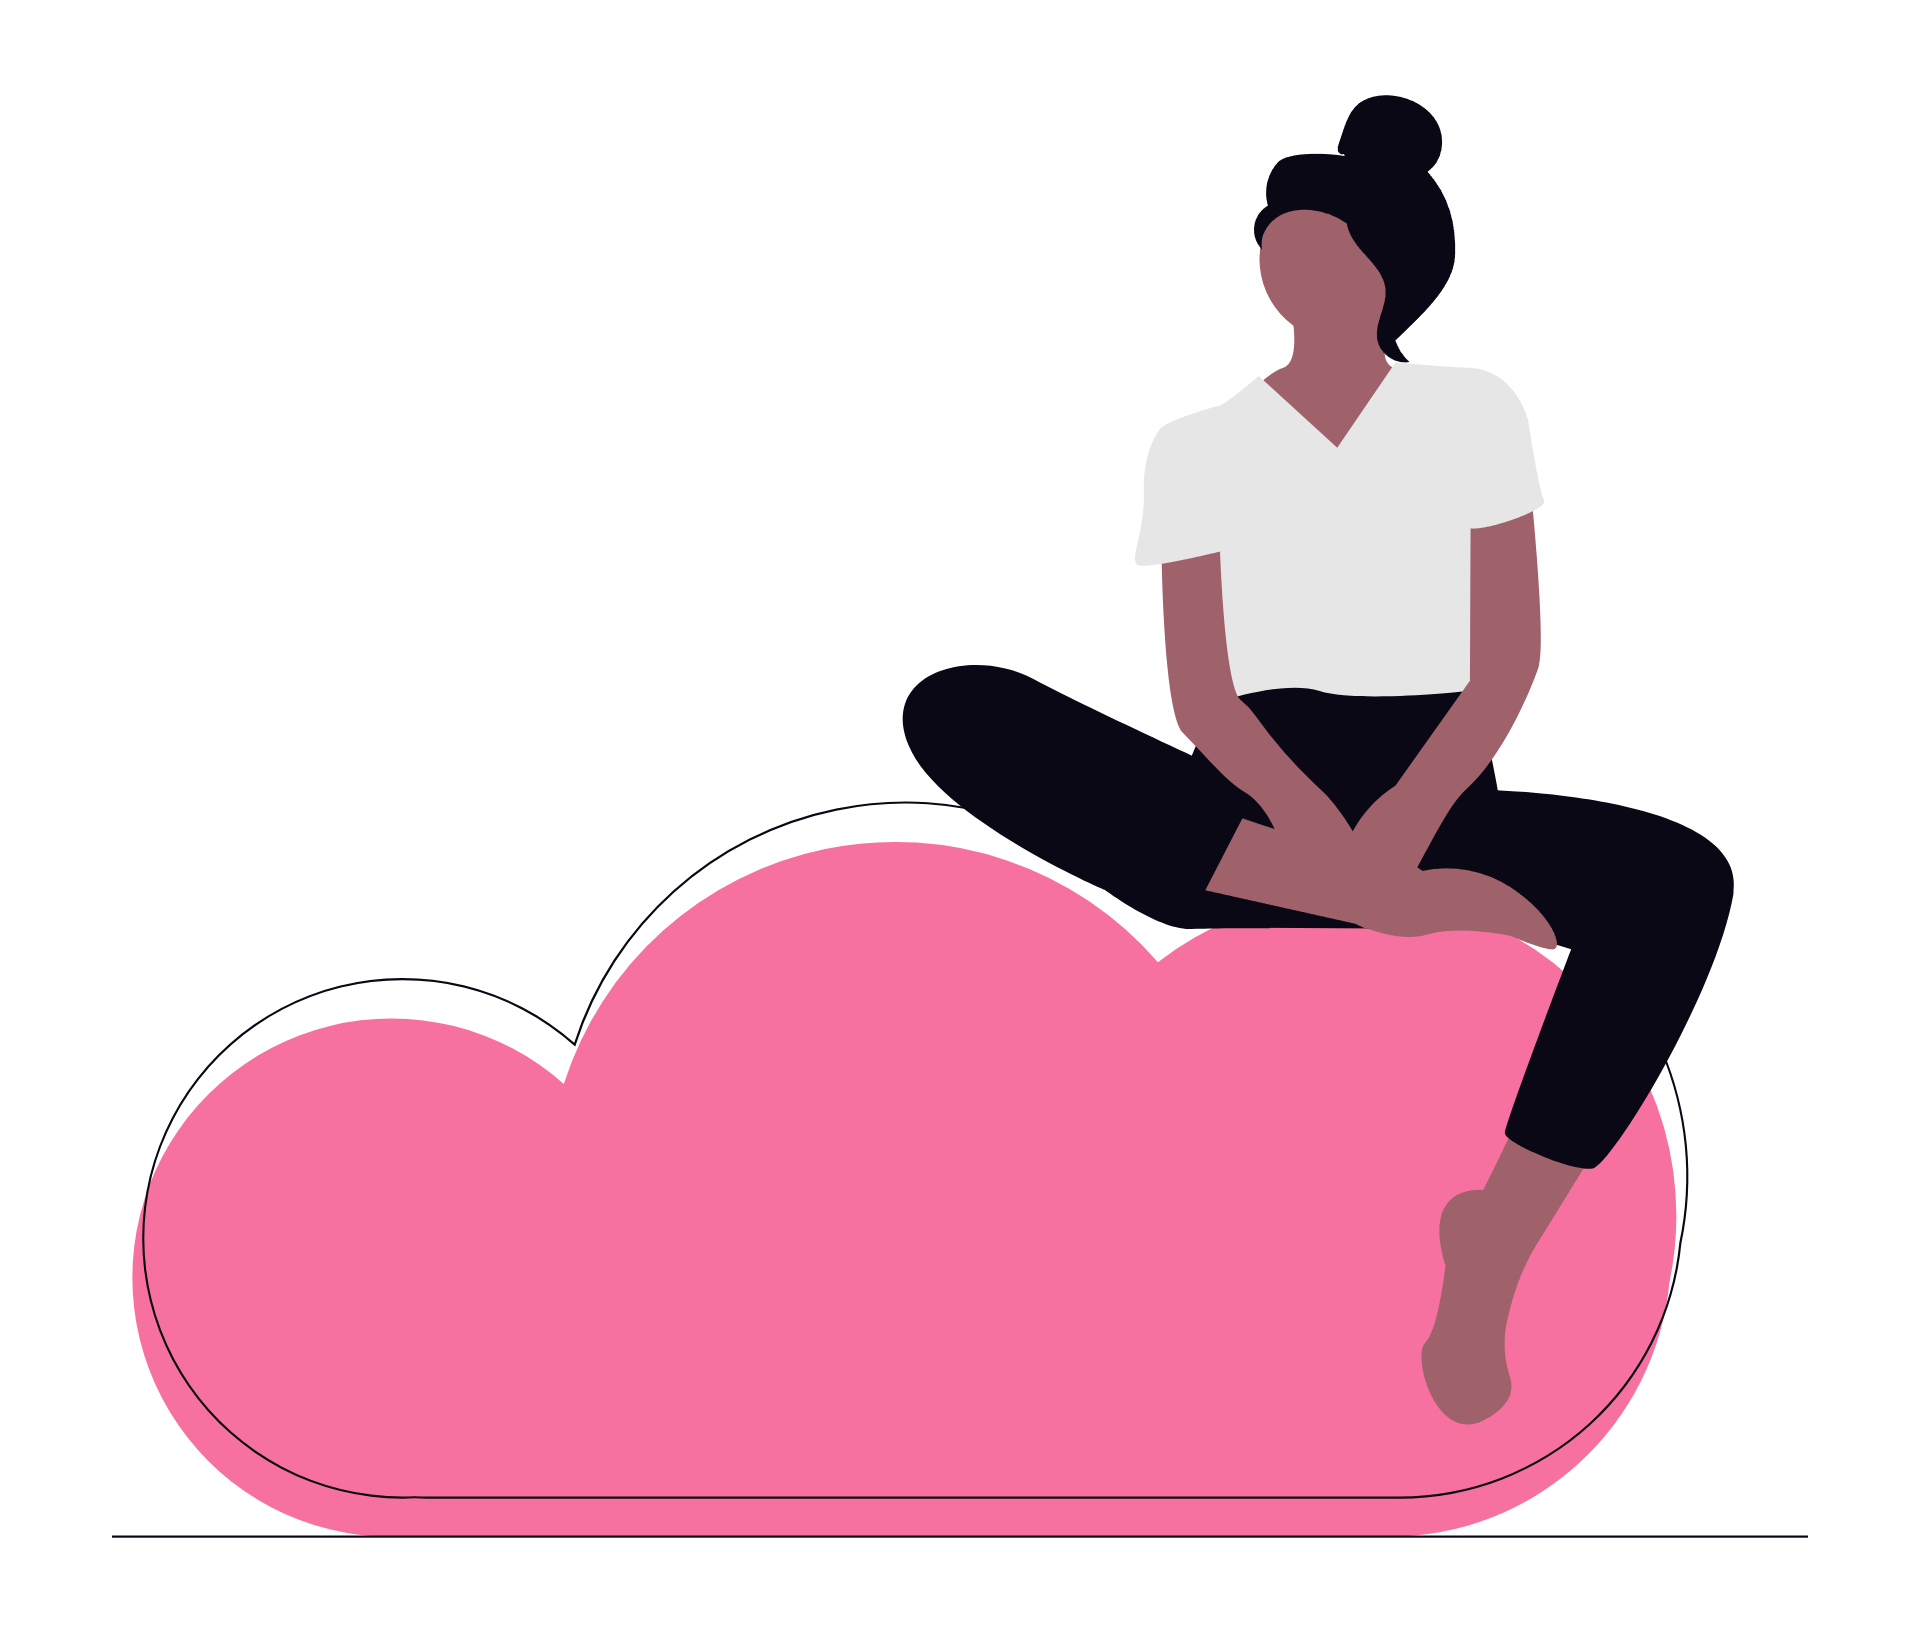
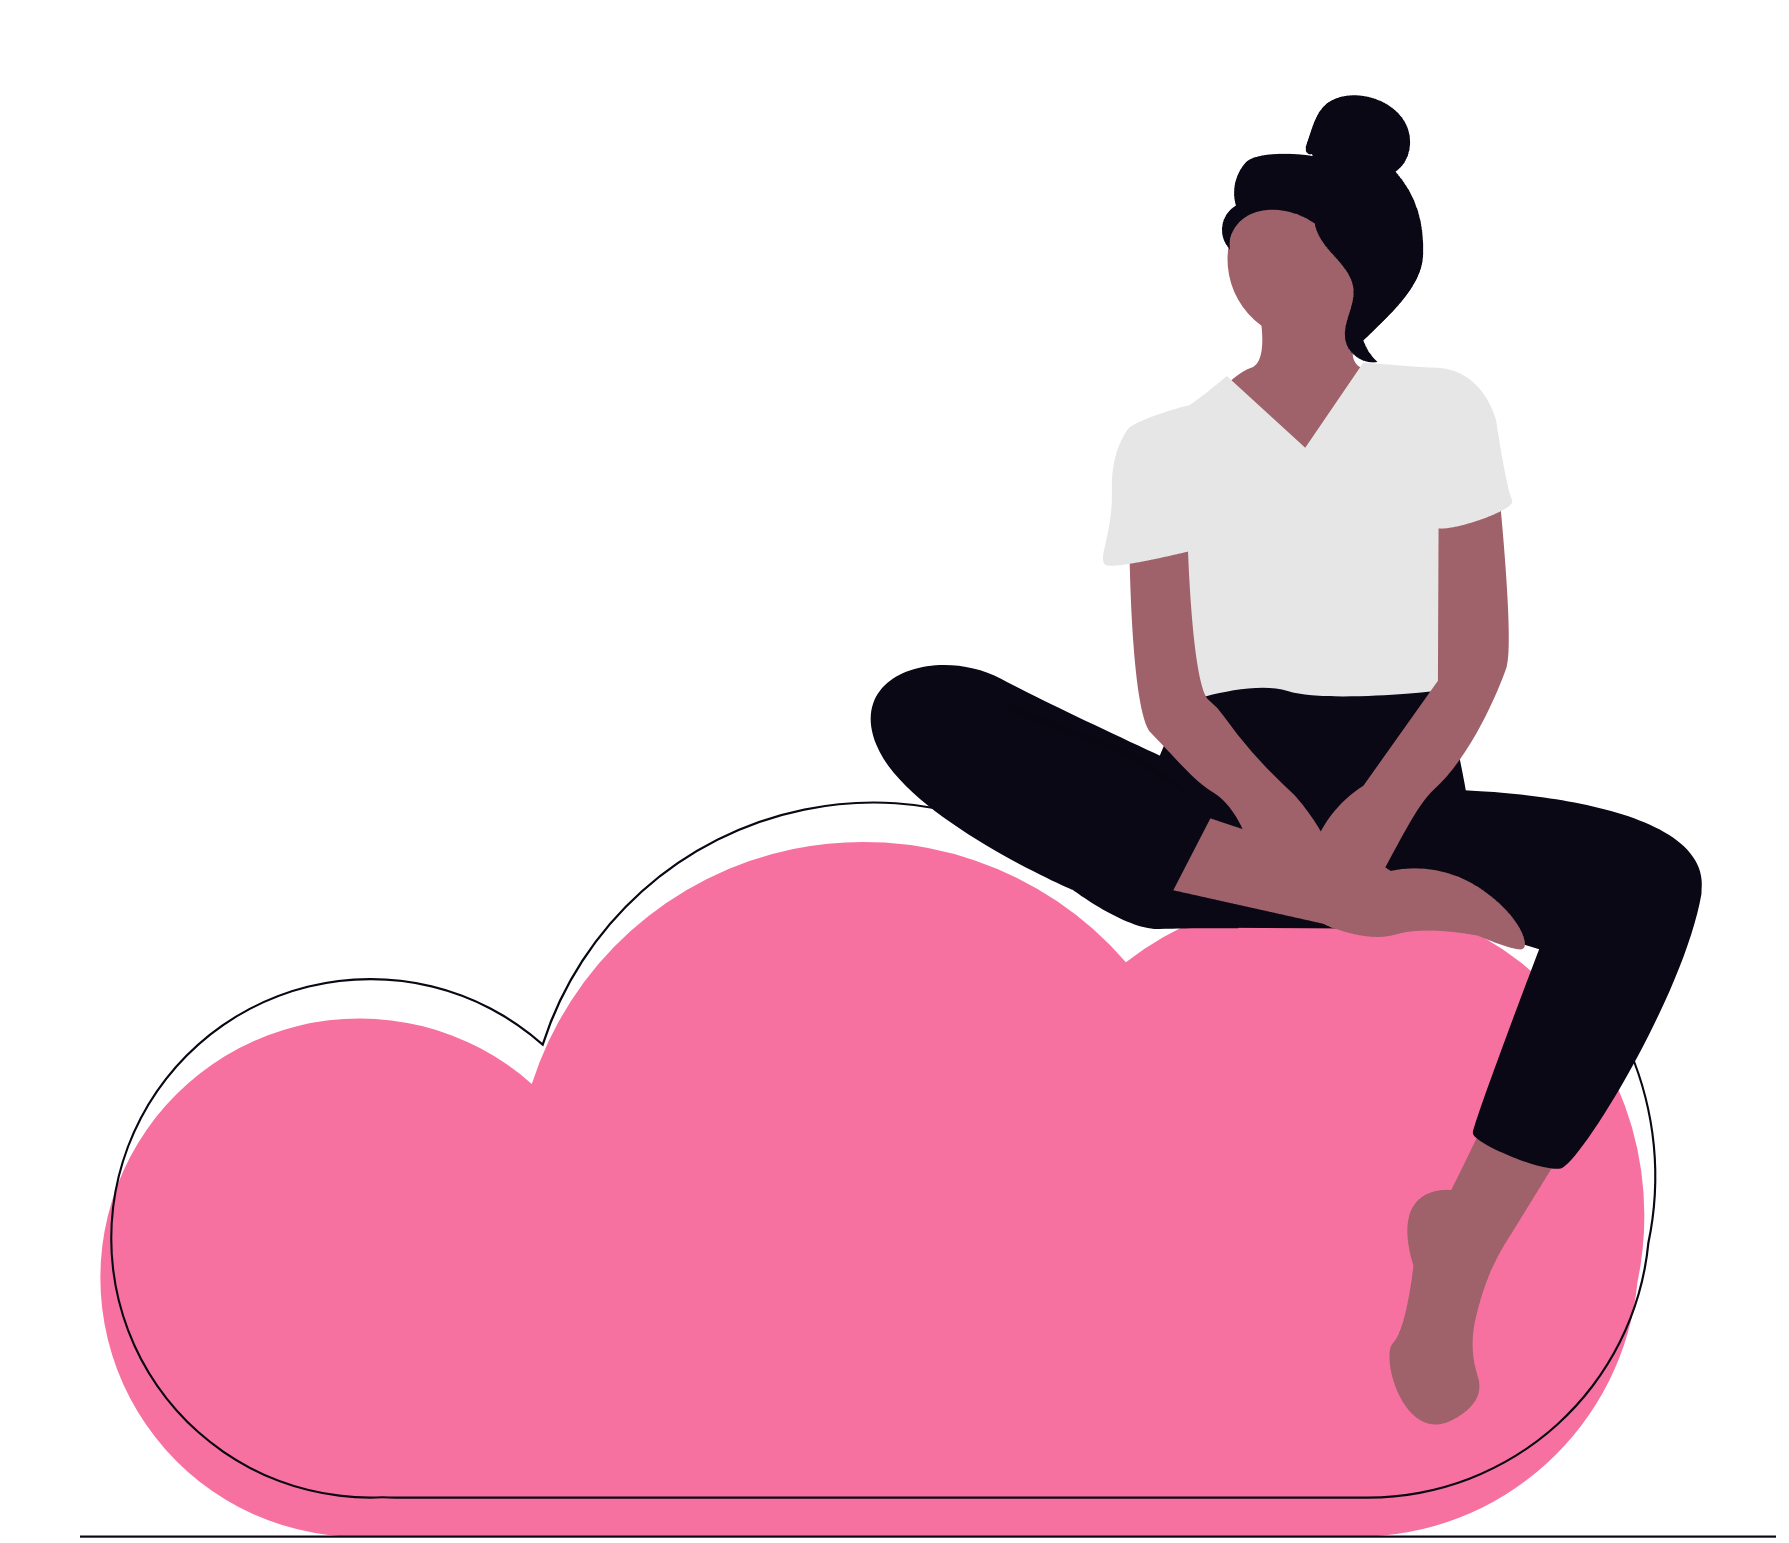
user error page done

Changed region(s): [[0.0307, 0.0622, 1.0, 1.0]]

diff --git a/src/Pages/Error.jsx b/src/Pages/Error.jsx
@@ -1,0 +1,30 @@
+import React from "react";
+
+function Error() {
+  return (
+    <div className="flex flex-col items-center px-4">
+      <div
+        className="w-full max-w-xl bg-contain bg-center bg-no-repeat h-56 sm:h-64 md:h-80 lg:h-[400px]"
+        style={{ backgroundImage: "url('/error.png')" }}
+      ></div>
+
+      <div className="w-full flex flex-col justify-center mt-10 items-center bg-white text-center">
+        <p className="text-black font-black text-6xl sm:text-7xl md:text-8xl lg:text-[120px] tracking-wide">
+          404!
+        </p>
+
+        <p className="font-bold font-[Inter] text-lg sm:text-xl md:text-2xl  text-stone-800">
+          Page Not Found
+        </p>
+
+        <a href="/">
+          <button className="text-white font-bold text-sm mt-8  bg-stone-800 rounded-xl p-2  hover:bg-stone-500">
+            Go Home
+          </button>
+        </a>
+      </div>
+    </div>
+  );
+}
+
+export default Error;

diff --git a/src/App.jsx b/src/App.jsx
@@ -7,7 +7,8 @@ import ProductDetails from "./Pages/ProductDetails";
 import ProductReviews from "./Pages/ProductReviews";
 import ShoppingBag from "./Pages/ShoppingBag";
 import Wishlist from "./Pages/Wishlist";
-import Error from "../Error";
+import Error from "./Pages/Error";
+
 const router = createBrowserRouter([
   {
     path: "/",
